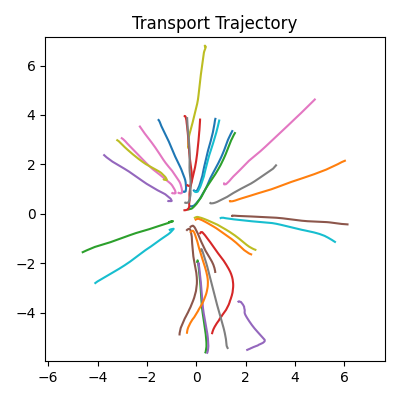
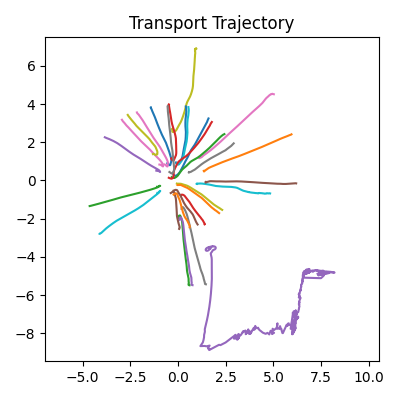
Hyperopt run with fixed equal r and d led to r=8,d=30. Also, conducted a training run with same params

diff --git a/tutorial/tutorial_rectified_flow_with_neural_network.py b/tutorial/tutorial_rectified_flow_with_neural_network.py
@@ -68,7 +68,7 @@ def draw_plot(rectified_flow, z0, z1, N=None, **kwargs):
     # Get sinkhorn value
     samples_loss_ = SamplesLoss()
     z1_gen = traj[-1]
-    if isinstance(rectified_flow,RectifiedFlowTT):
+    if isinstance(rectified_flow, RectifiedFlowTT):
         z1_gen_filtered = filter_tensor(z1_gen)
     else:
         z1_gen_filtered = z1_gen
@@ -243,15 +243,12 @@ def train_rectified_flow_tt(rectified_flow_tt: RectifiedFlowTT, x0, x1, reg_coef
 
 
 def hopt_objective(args):
-    r1 = args['r1']
-    r2 = args['r2']
-    d0 = args['d0']
-    d1 = args['d1']
-    d2 = args['d2']
-    print(f"Creating a RecFlow TT object with r={(r1, r2)}")
-    ranks = [1] + [r1, r2] + [1]
+    r = args['r']
+    d = args['d']
+    print(f"Creating a RecFlow TT object with r={(r, r)}")
+    ranks = [1] + [r, r] + [1]
     limits = (-20, 20)
-    model = RectifiedFlowTT(ranks=ranks, basis_degrees=[d0, d1, d2], data_dim=data_dim, limits=limits)
+    model = RectifiedFlowTT(ranks=ranks, basis_degrees=[d, d, d], data_dim=data_dim, limits=limits)
     print("training tt-recflow")
     reg_coeff = 1e-10
     n_itr = 20
@@ -262,13 +259,13 @@ def hopt_objective(args):
     x1_test = get_target_samples(dataset_name=args['dataset_name'], n_samples=args['N'])
     checkpoint_sinkhorn = samples_loss_(x1_train, x1_test)
     print(f"Checkpoint sinkhorn between train and test : {checkpoint_sinkhorn}")
-    print(f"r={(r1, r2)}")
+    print(f"r={(r, r)}")
     train_rectified_flow_tt(rectified_flow_tt=model, x0=x0, x1=x1_train, reg_coeff=reg_coeff,
                             iterations=n_itr, tol=tol)
     gen_sample = model.sample_ode(z0=args['init_model'].sample(torch.Size([n_samples])), N=2000)[-1]
     gen_sample_filtered = filter_tensor(x=gen_sample)
     gen_sinkhorn = samples_loss_(x1_test, gen_sample_filtered).item()
-    print(f"with r = {(r1, r2)}gen_sinkhorn value = {gen_sinkhorn}")
+    print(f"with r = {(r, r)}, d = {d}gen_sinkhorn value = {gen_sinkhorn}")
     return {
         'loss': gen_sinkhorn,
         'status': STATUS_OK,
@@ -282,16 +279,13 @@ def hopt_objective(args):
 
 def tt_recflow_hopt(init_model: Distribution, target_dataset_name: str):
     # https://github.com/hyperopt/hyperopt/issues/835
-    space = {'r1': hp.randint('r1', 1, 10),
-             'r2': hp.randint('r2', 1, 10),
-             'd0': 30,
-             'd1': 30,
-             'd2': 30,
+    space = {'r': hp.randint('r', 1, 10),
+             'd': hp.randint('d', 5, 50),
              'init_model': init_model,
              'dataset_name': target_dataset_name,
              'N': 10000}
     trials = Trials()
-    best = fmin(fn=hopt_objective, space=space, algo=tpe.suggest, max_evals=200, trials=trials)
+    best = fmin(fn=hopt_objective, space=space, algo=tpe.suggest, max_evals=100, trials=trials)
     print(f"Best parameters = {best}")
     print(f"Opt loss = {trials.best_trial['result']['loss']}")
 
@@ -305,8 +299,9 @@ if __name__ == '__main__':
     COMP = 3
     n_samples = 10000
     data_dim = 2
-    model_type = "nn"  # can be nn or tt
+    model_type = "tt"  # can be nn or tt
     do_hyperopt = False
+    hopt_max_evals = 500
     target_dataset_name = "swissroll"
     initial_model = MultivariateNormal(loc=torch.zeros(2), covariance_matrix=torch.eye(2))
     samples_0 = initial_model.sample(torch.Size([n_samples]))
@@ -357,9 +352,9 @@ if __name__ == '__main__':
                   "")
 
         else:
-            basis_degree = [32,32, 32]
+            basis_degree = [30, 30, 30]
             limits = (-20, 20)
-            ranks = [1, 8, 3, 1]
+            ranks = [1, 8, 8, 1]
             recflow_model = RectifiedFlowTT(ranks=ranks, basis_degrees=basis_degree, data_dim=2, limits=limits)
             print("training tt-recflow")
             reg_coeff = 1e-3
@@ -432,4 +427,11 @@ Opt loss = 0.11993751016478815
 tt recflow hyperopt is finished.
 See console for results.exiting.
 ***************************************************************************************
+
+Results Set 3 : Hyperopt run
+
+100%|██████████| 100/100 [3:14:53<00:00, 116.94s/trial, best loss: 0.1319644362387083]
+Best parameters = {'d': 30, 'r': 8}
+Opt loss = 0.1319644362387083
+tt recflow hyperopt is finished.
 """
